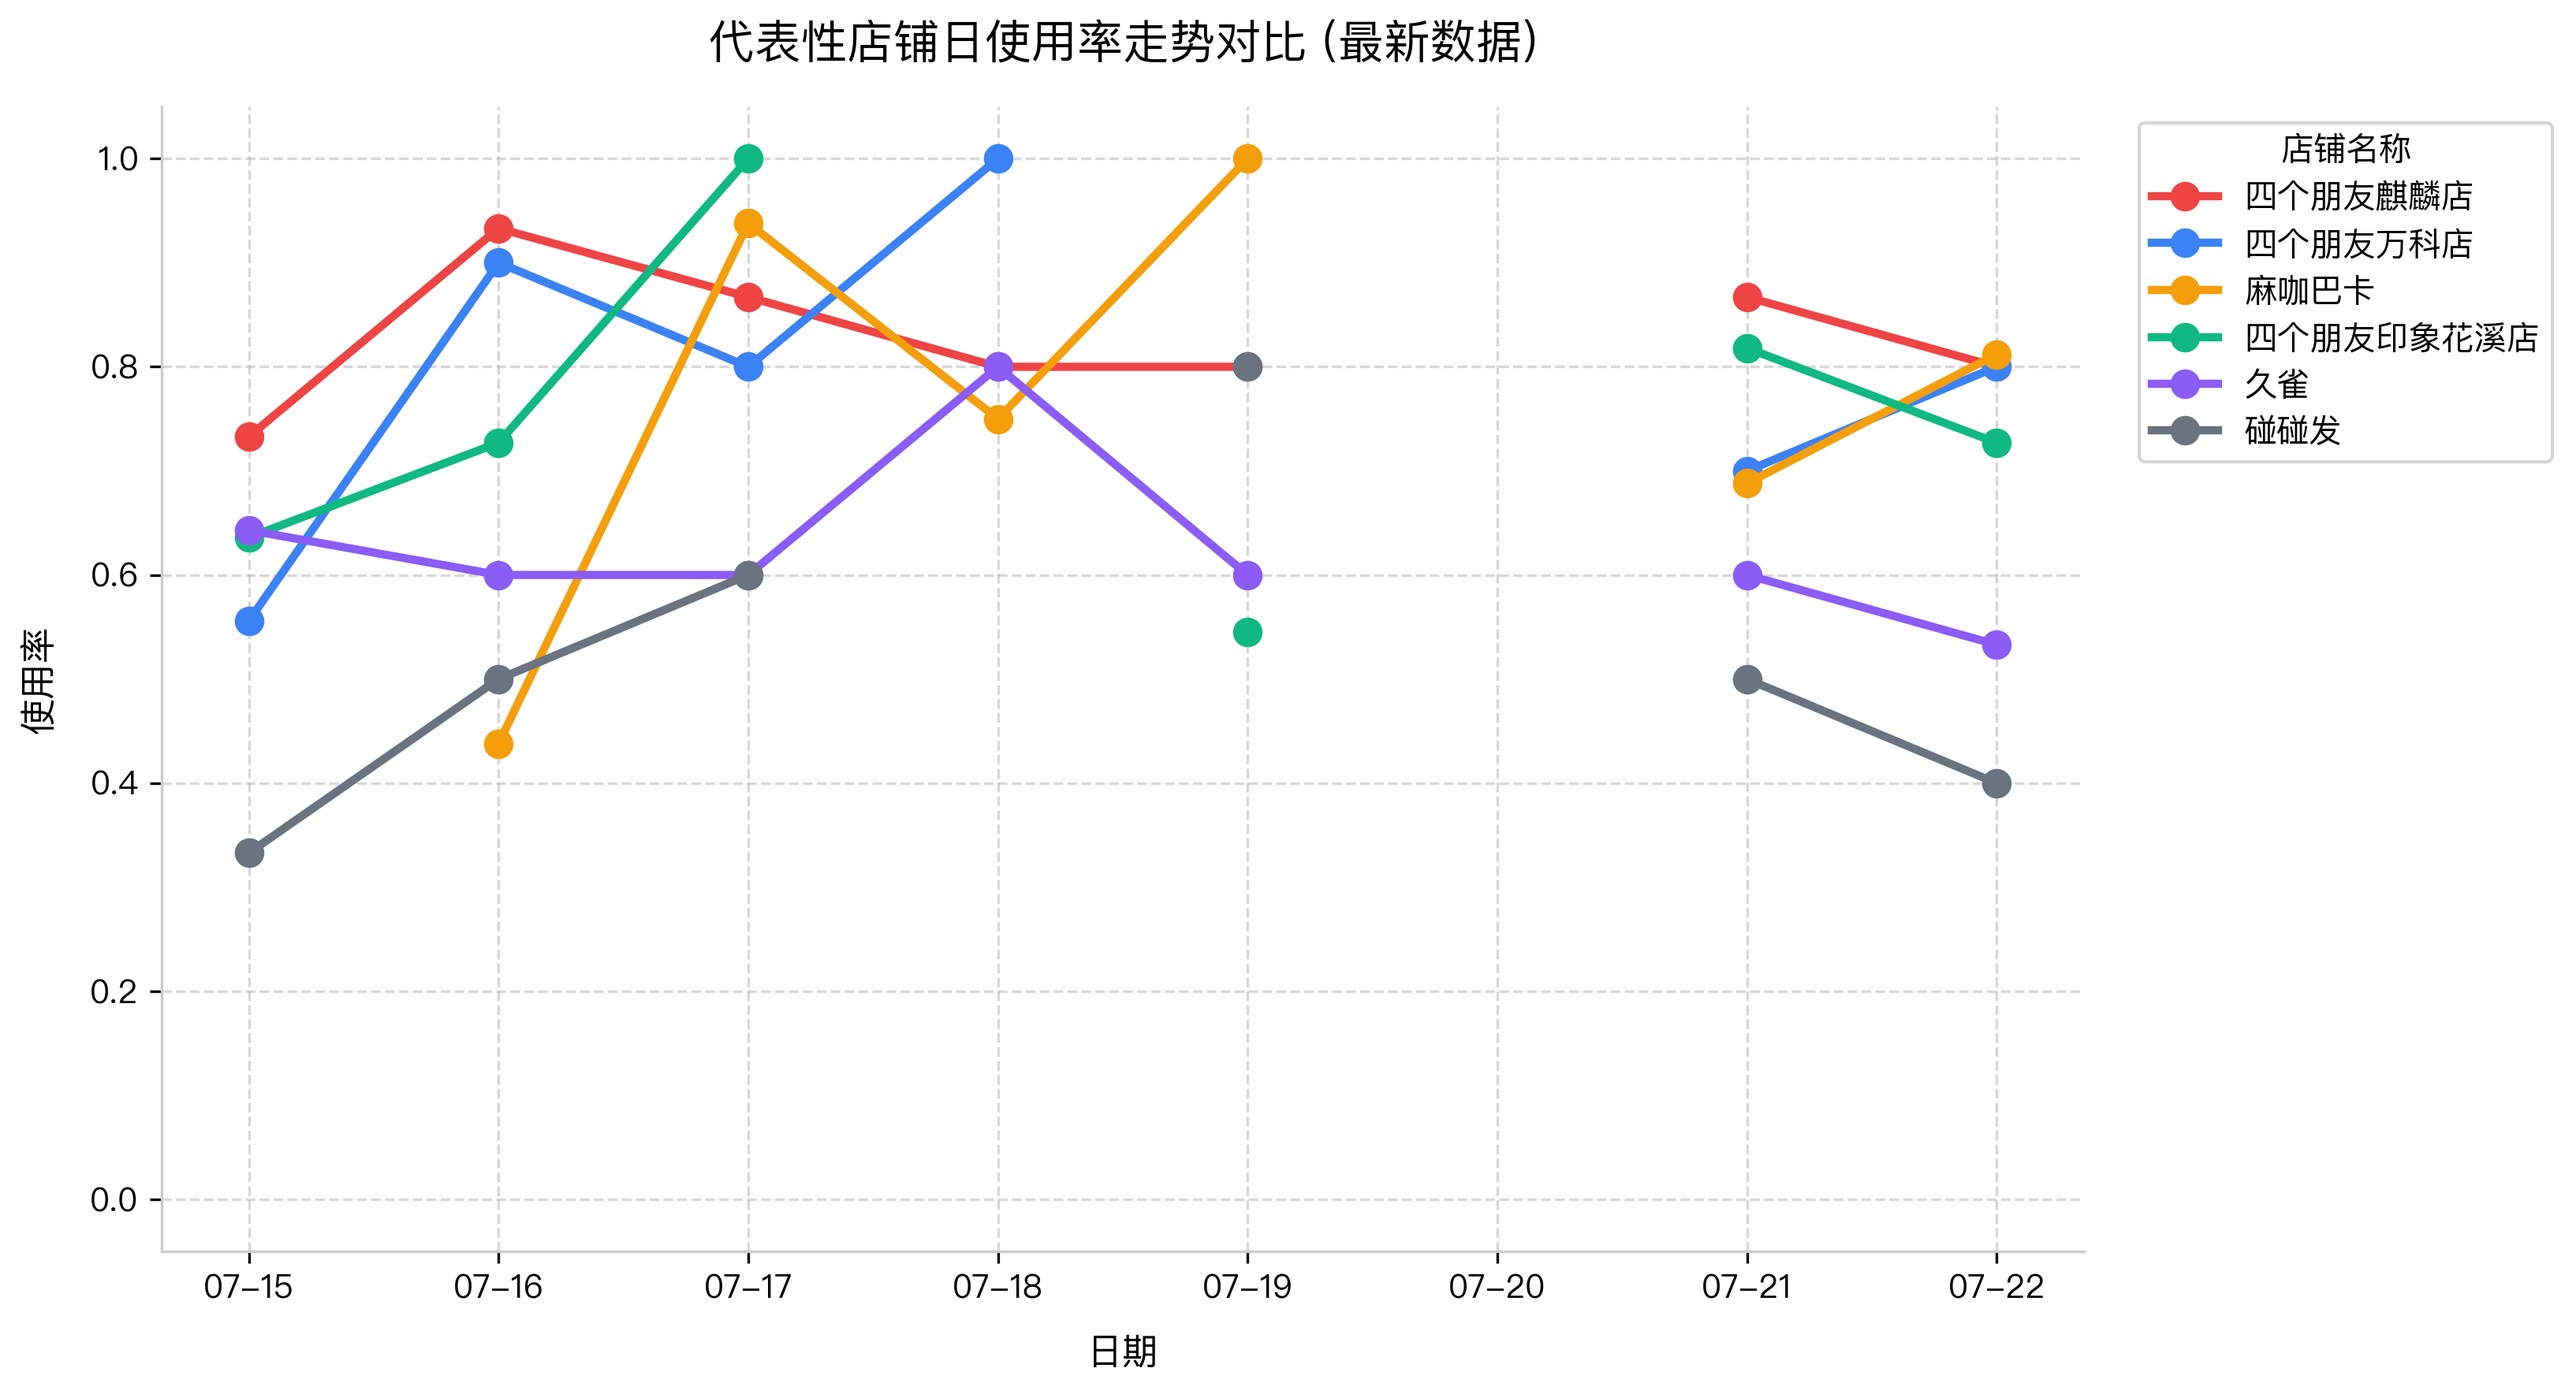
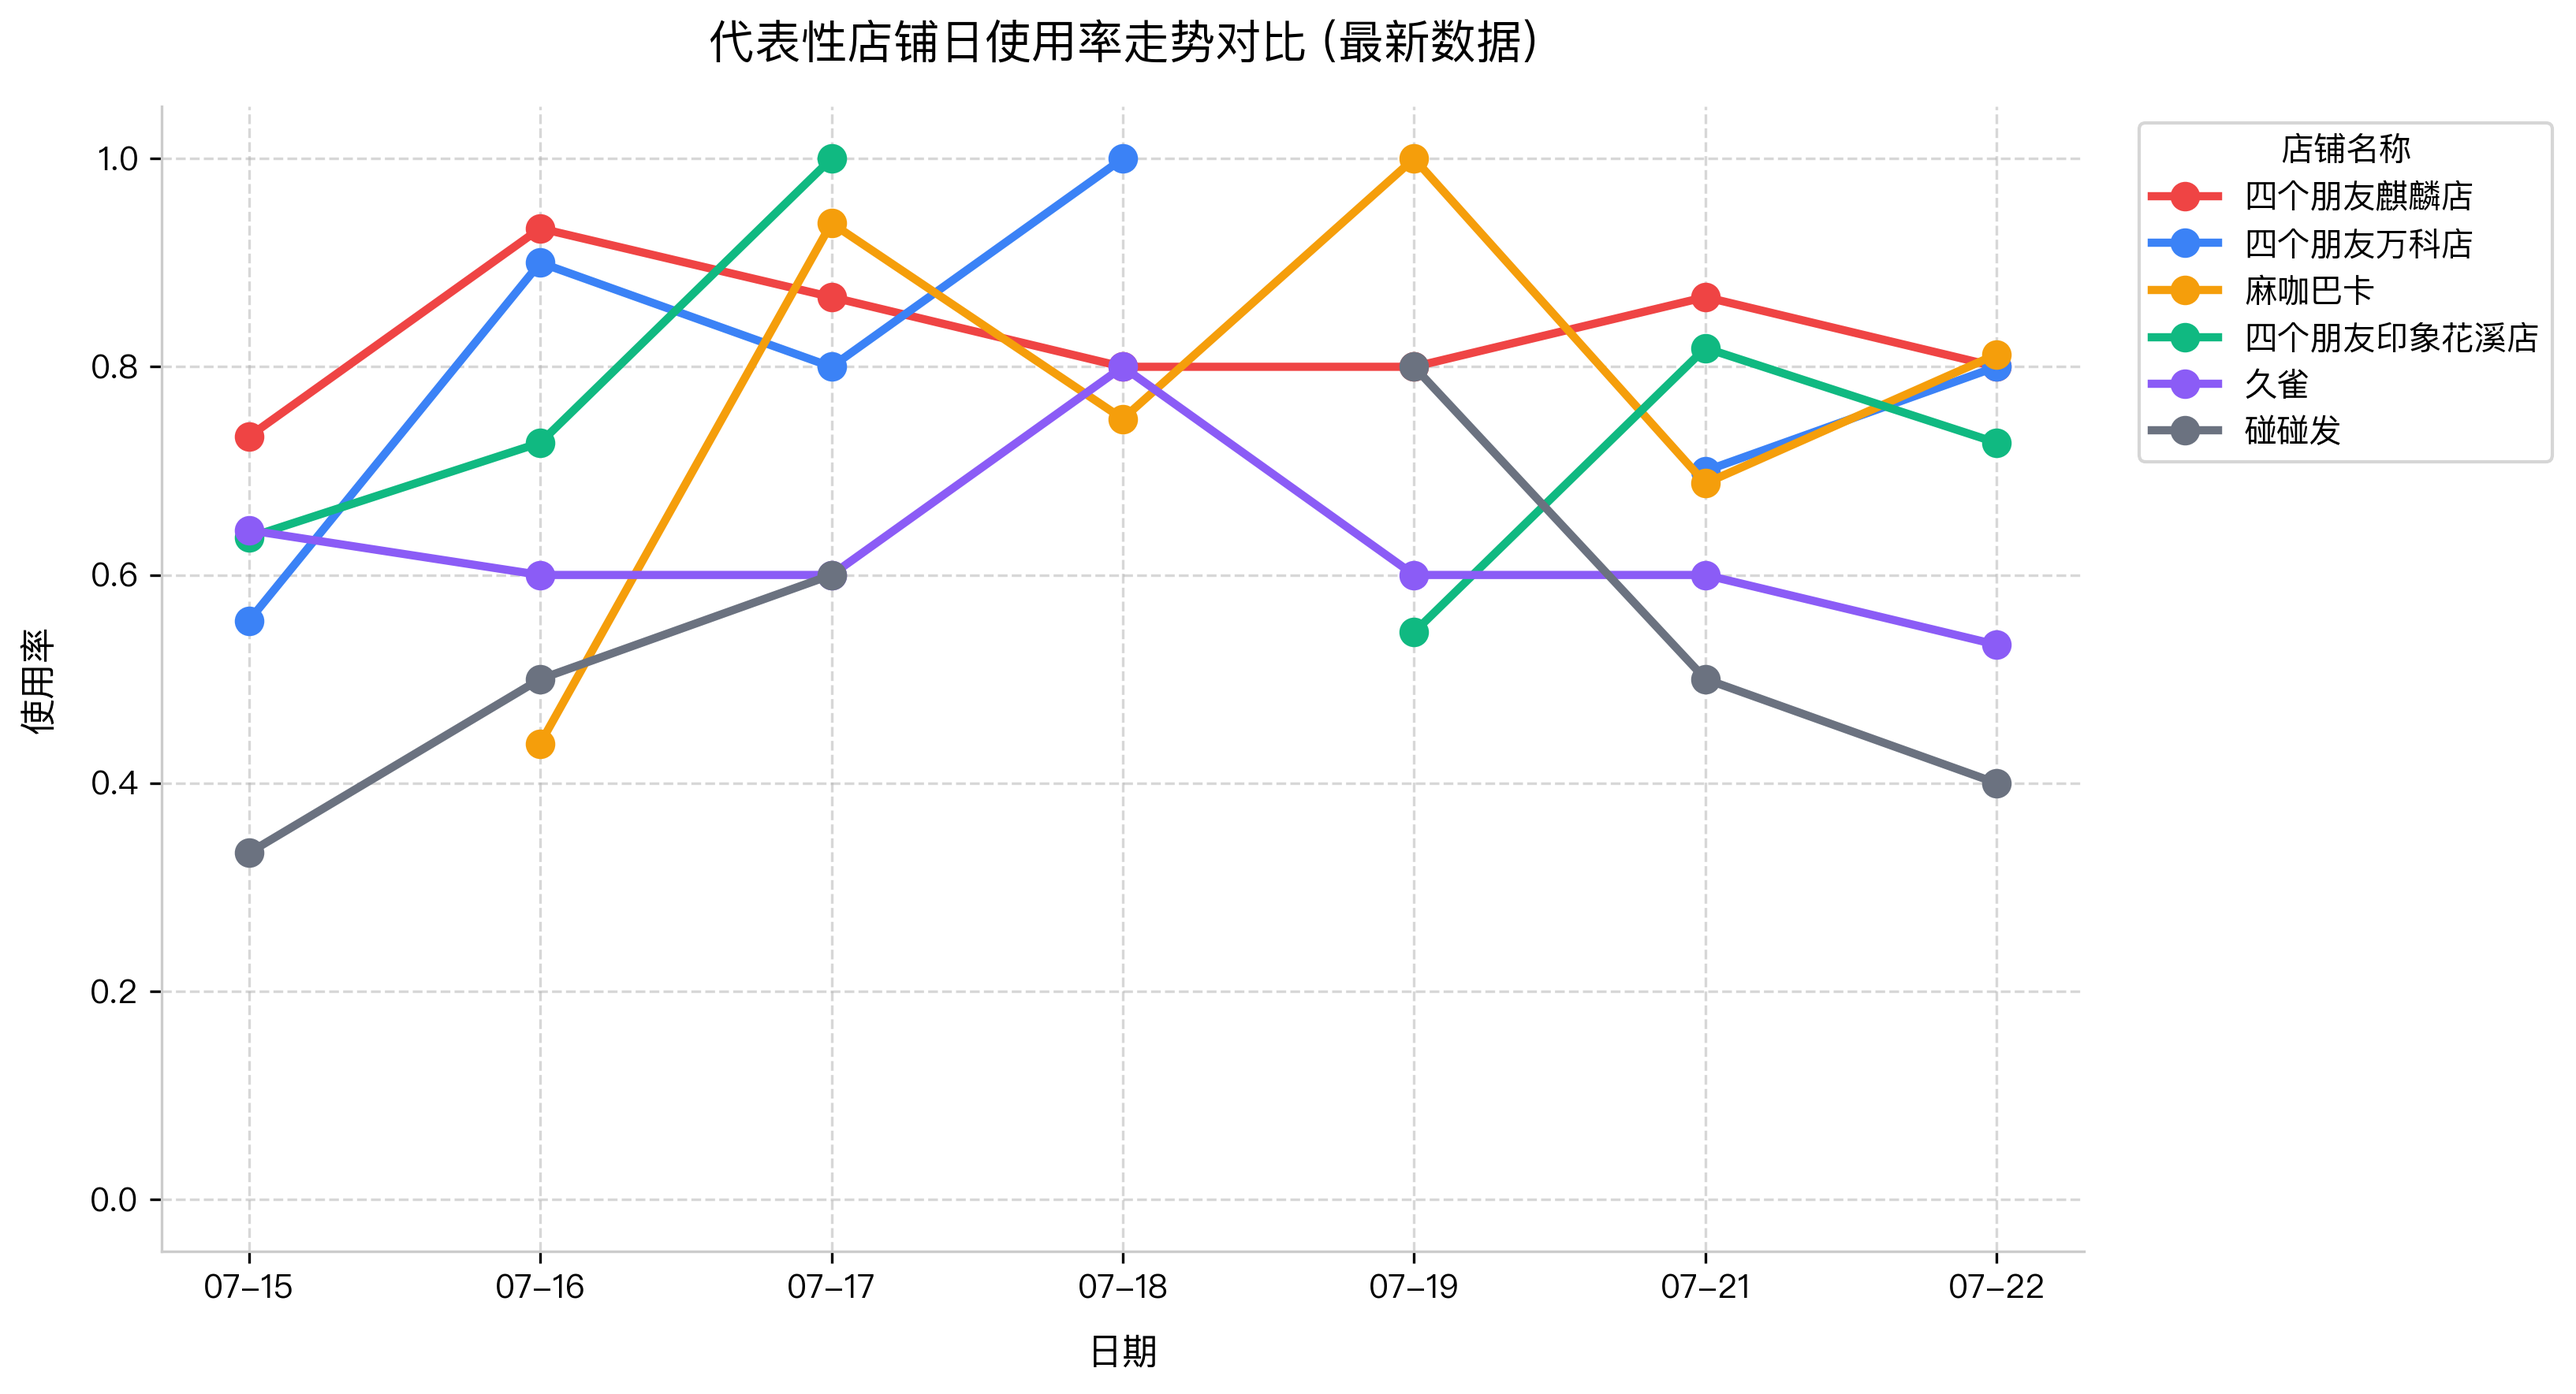
fix: exclude 07-20 and show correct last day trend

diff --git a/dashboard.html b/dashboard.html
@@ -202,7 +202,7 @@
         }
 ];
 
-        const dates = ["07-15", "07-16", "07-17", "07-18", "07-19", "07-20", "07-21", "07-22"];
+        const dates = ["07-15", "07-16", "07-17", "07-18", "07-19", "07-21", "07-22"];
         
         // 每日走势数据
         const trendData = {
@@ -212,7 +212,6 @@
                 0.867,
                 0.8,
                 0.8,
-                null,
                 0.867,
                 0.8
         ],
@@ -221,7 +220,6 @@
                 0.9,
                 0.8,
                 1.0,
-                null,
                 null,
                 0.7,
                 0.8
@@ -232,7 +230,6 @@
                 0.938,
                 0.75,
                 1.0,
-                null,
                 0.688,
                 0.812
         ],
@@ -242,7 +239,6 @@
                 1.0,
                 null,
                 0.545,
-                null,
                 0.818,
                 0.727
         ],
@@ -252,7 +248,6 @@
                 0.6,
                 0.8,
                 0.6,
-                null,
                 0.6,
                 0.533
         ],
@@ -262,7 +257,6 @@
                 0.6,
                 null,
                 0.8,
-                null,
                 0.5,
                 0.4
         ]

diff --git a/update_dashboard_data.py b/update_dashboard_data.py
@@ -33,14 +33,17 @@ def main():
         df.columns = [str(val).strip() for val in df.iloc[2].values]
         df = df.iloc[3:]
         
-    df = df.dropna(subset=['日期', '店名'])
+    # 【核心修复】：不仅要过滤日期和店名，还要过滤“今天使用间数”为 NaN 的行（因为7月20日没有去采集，数据全空，不应计入统计日期）
+    df = df.dropna(subset=['日期', '店名', '今天使用间数'])
     
     # 清洗数据
     df['总间数'] = pd.to_numeric(df['总间数'], errors='coerce')
     df['今天使用间数'] = pd.to_numeric(df['今天使用间数'], errors='coerce')
     df['使用率'] = pd.to_numeric(df['使用率'], errors='coerce')
     
-    # 格式化日期：有些可能是 datetime 对象，有些是字符串
+    # 重新计算使用率，以防手写数据有算错的
+    df['使用率'] = df['今天使用间数'] / df['总间数']
+    
     df['日期_dt'] = pd.to_datetime(df['日期'], errors='coerce')
     df = df.dropna(subset=['日期_dt'])
     df = df.sort_values(by='日期_dt')
@@ -61,12 +64,10 @@ def main():
             "rooms": int(round(row['平均总间数'])) if pd.notnull(row['平均总间数']) else 0
         })
         
-    # 2. 计算每日走势 trendData
-    # 获取所有不重复的有效日期并排序
+    # 2. 计算每日走势 trendData (过滤掉未采集日 07-20 后的日期列表)
     all_dates = sorted(df['日期_str'].unique())
-    print(f"有效统计日期: {all_dates}")
+    print(f"有效统计日期（已过滤未采集的07-20）: {all_dates}")
     
-    # 选择排名前6的店铺画折线图（或者与之前一致）
     top_shops = summary['店名'].head(6).tolist()
     trend_dict = {}
     
@@ -110,7 +111,6 @@ def main():
     chart1_path = os.path.join(workspace_dir, 'average_occupancy.png')
     plt.savefig(chart1_path, bbox_inches='tight')
     plt.close()
-    print("图表 1 (average_occupancy.png) 已更新")
     
     # 图 2: 趋势折线图
     colors_dict = {
@@ -139,18 +139,13 @@ def main():
     chart2_path = os.path.join(workspace_dir, 'daily_trend.png')
     plt.savefig(chart2_path, bbox_inches='tight')
     plt.close()
-    print("图表 2 (daily_trend.png) 已更新")
 
     # 4. 读取旧的 dashboard.html，并在里面替换数据
     html_path = os.path.join(workspace_dir, 'dashboard.html')
     with open(html_path, 'r', encoding='utf-8') as f:
         html_content = f.read()
         
-    # 我们需要替换 summaryData, dates, trendData
     # 替换 summaryData
-    summary_json = json.dumps(summary_list, ensure_ascii=False, indent=12)
-    # 匹配 const summaryData = [ ... ]; 并替换
-    # 使用较强的正则或者简单查找替换
     start_tag = "const summaryData = ["
     end_tag = "];"
     start_idx = html_content.find(start_tag)
@@ -179,25 +174,18 @@ def main():
         html_content = html_content.replace(old_block, new_block)
         
     # 替换大屏里的大盘数据
-    # 计算新大盘平均使用率
     overall_mean = df['使用率'].mean()
     overall_mean_str = f"{overall_mean * 100:.1f}%"
-    print(f"大盘最新平均使用率: {overall_mean_str}")
+    print(f"新大盘平均使用率: {overall_mean_str}")
     
-    # 替换大盘使用率的 HTML
-    # <div class="text-3xl font-bold text-blue-400 mt-2">52.1%</div>
-    # 我们可以正则或者直接查找
     search_str = '大盘平均使用率</div>\n            <div class="text-3xl font-bold text-blue-400 mt-2">'
     start_idx = html_content.find(search_str)
     if start_idx != -1:
         val_start = start_idx + len(search_str)
         val_end = html_content.find("</div>", val_start)
-        old_val = html_content[val_start:val_end]
         html_content = html_content[:val_start] + overall_mean_str + html_content[val_end:]
         
     # 替换领头羊店铺的 HTML
-    # <div class="text-2xl font-bold text-emerald-400 mt-2 truncate">四个朋友麒麟店</div>
-    # <div class="text-slate-500 text-xs mt-1">平均使用率高居 <span class="text-emerald-400 font-semibold">83.8%</span></div>
     top_shop_name = summary_list[0]['name']
     top_shop_rate = f"{summary_list[0]['rate'] * 100:.1f}%"
     
@@ -218,12 +206,12 @@ def main():
     # 写回文件
     with open(html_path, 'w', encoding='utf-8') as f:
         f.write(html_content)
-    print("dashboard.html 中的数据源已成功自动更新！")
+    print("dashboard.html 自动修正完成！")
     
     # 打印简短排行结果
     summary['平均总间数'] = summary['平均总间数'].round().astype(int)
     summary['平均使用间数'] = (summary['平均使用率'] * summary['平均总间数']).round().astype(int)
-    print("\n=== 最新店铺经营排行 ===")
+    print("\n=== 最新店铺经营排行 (已过滤07-20) ===")
     print(summary.to_string(index=False))
 
 if __name__ == "__main__":
